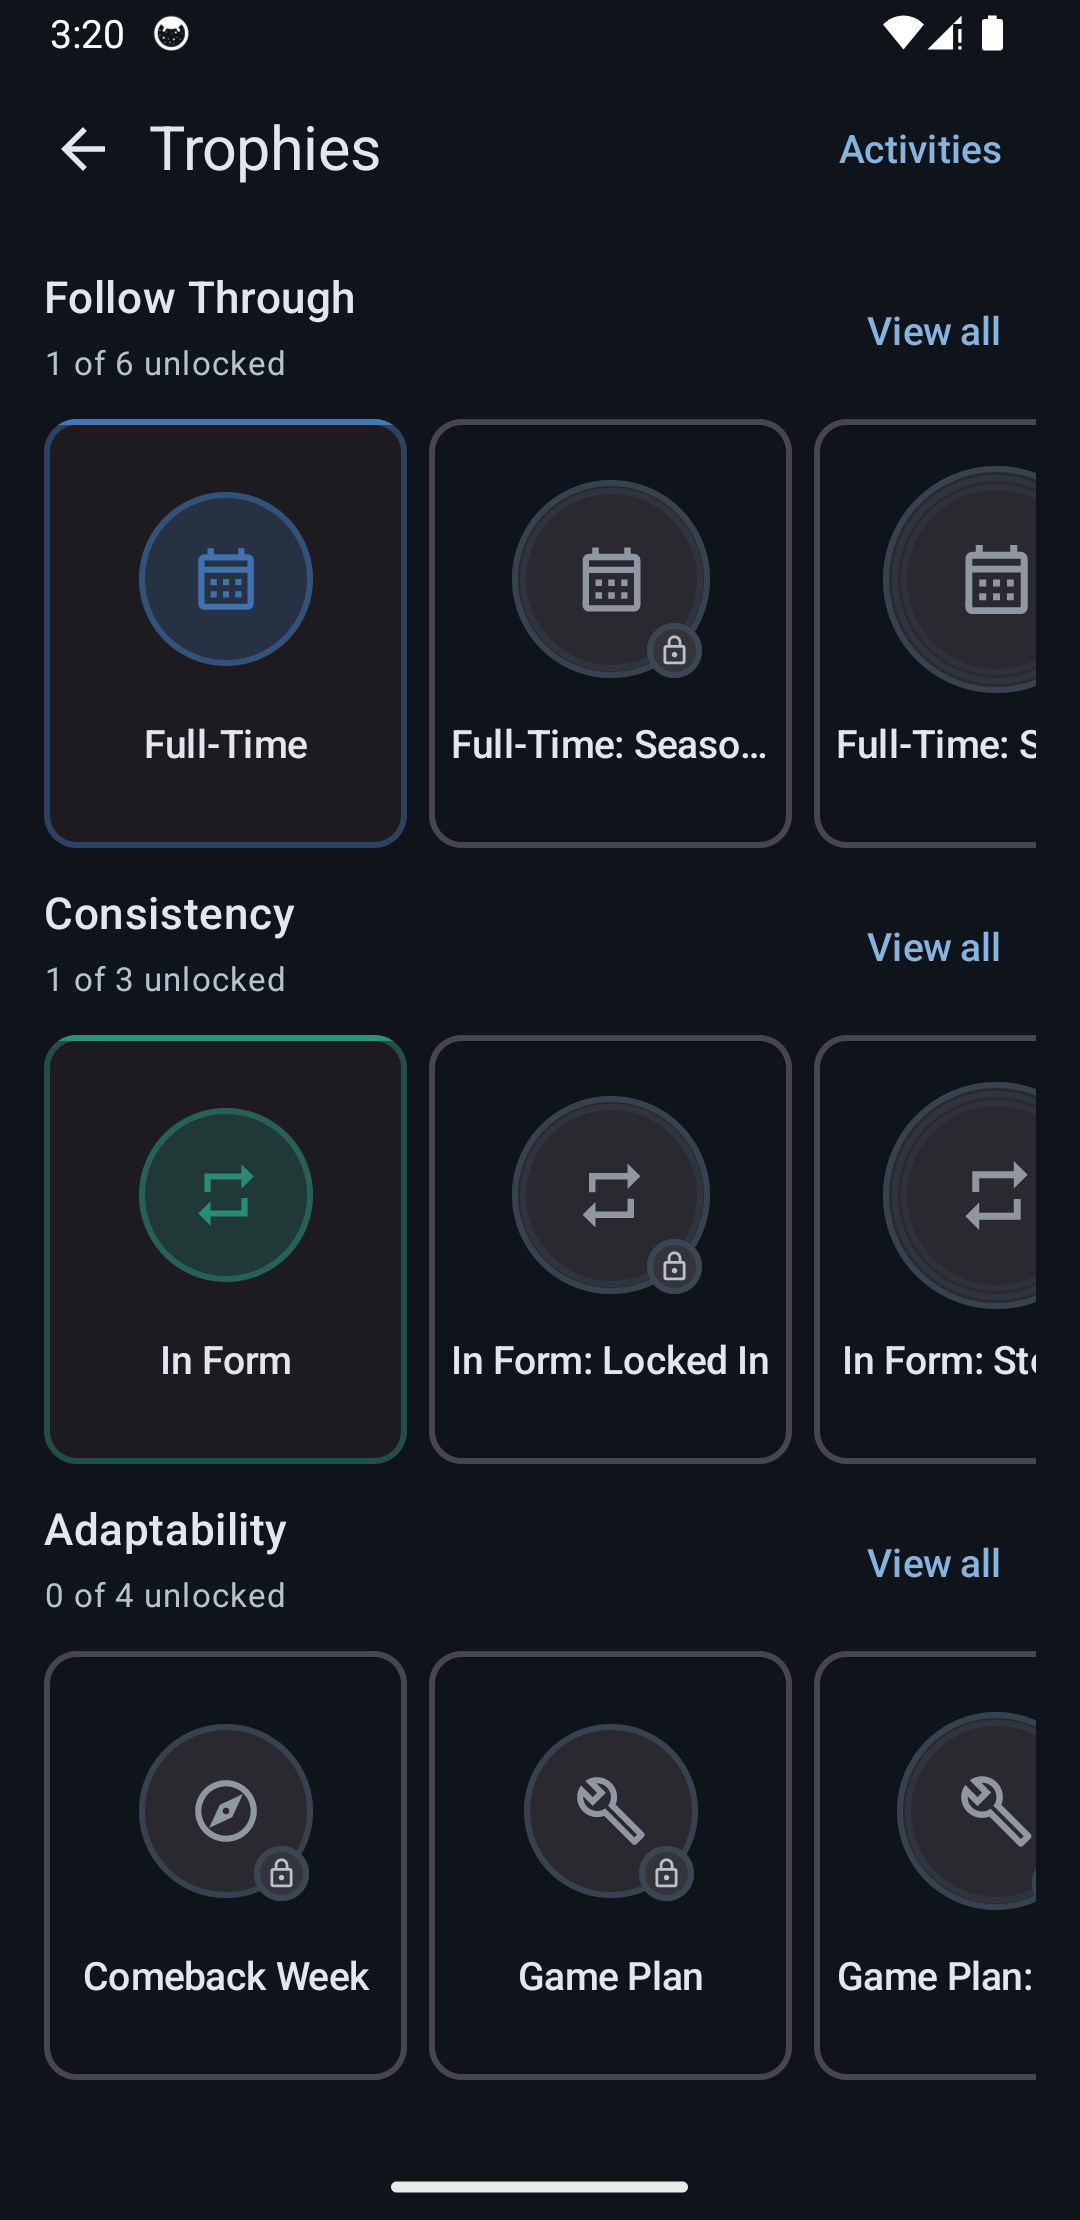
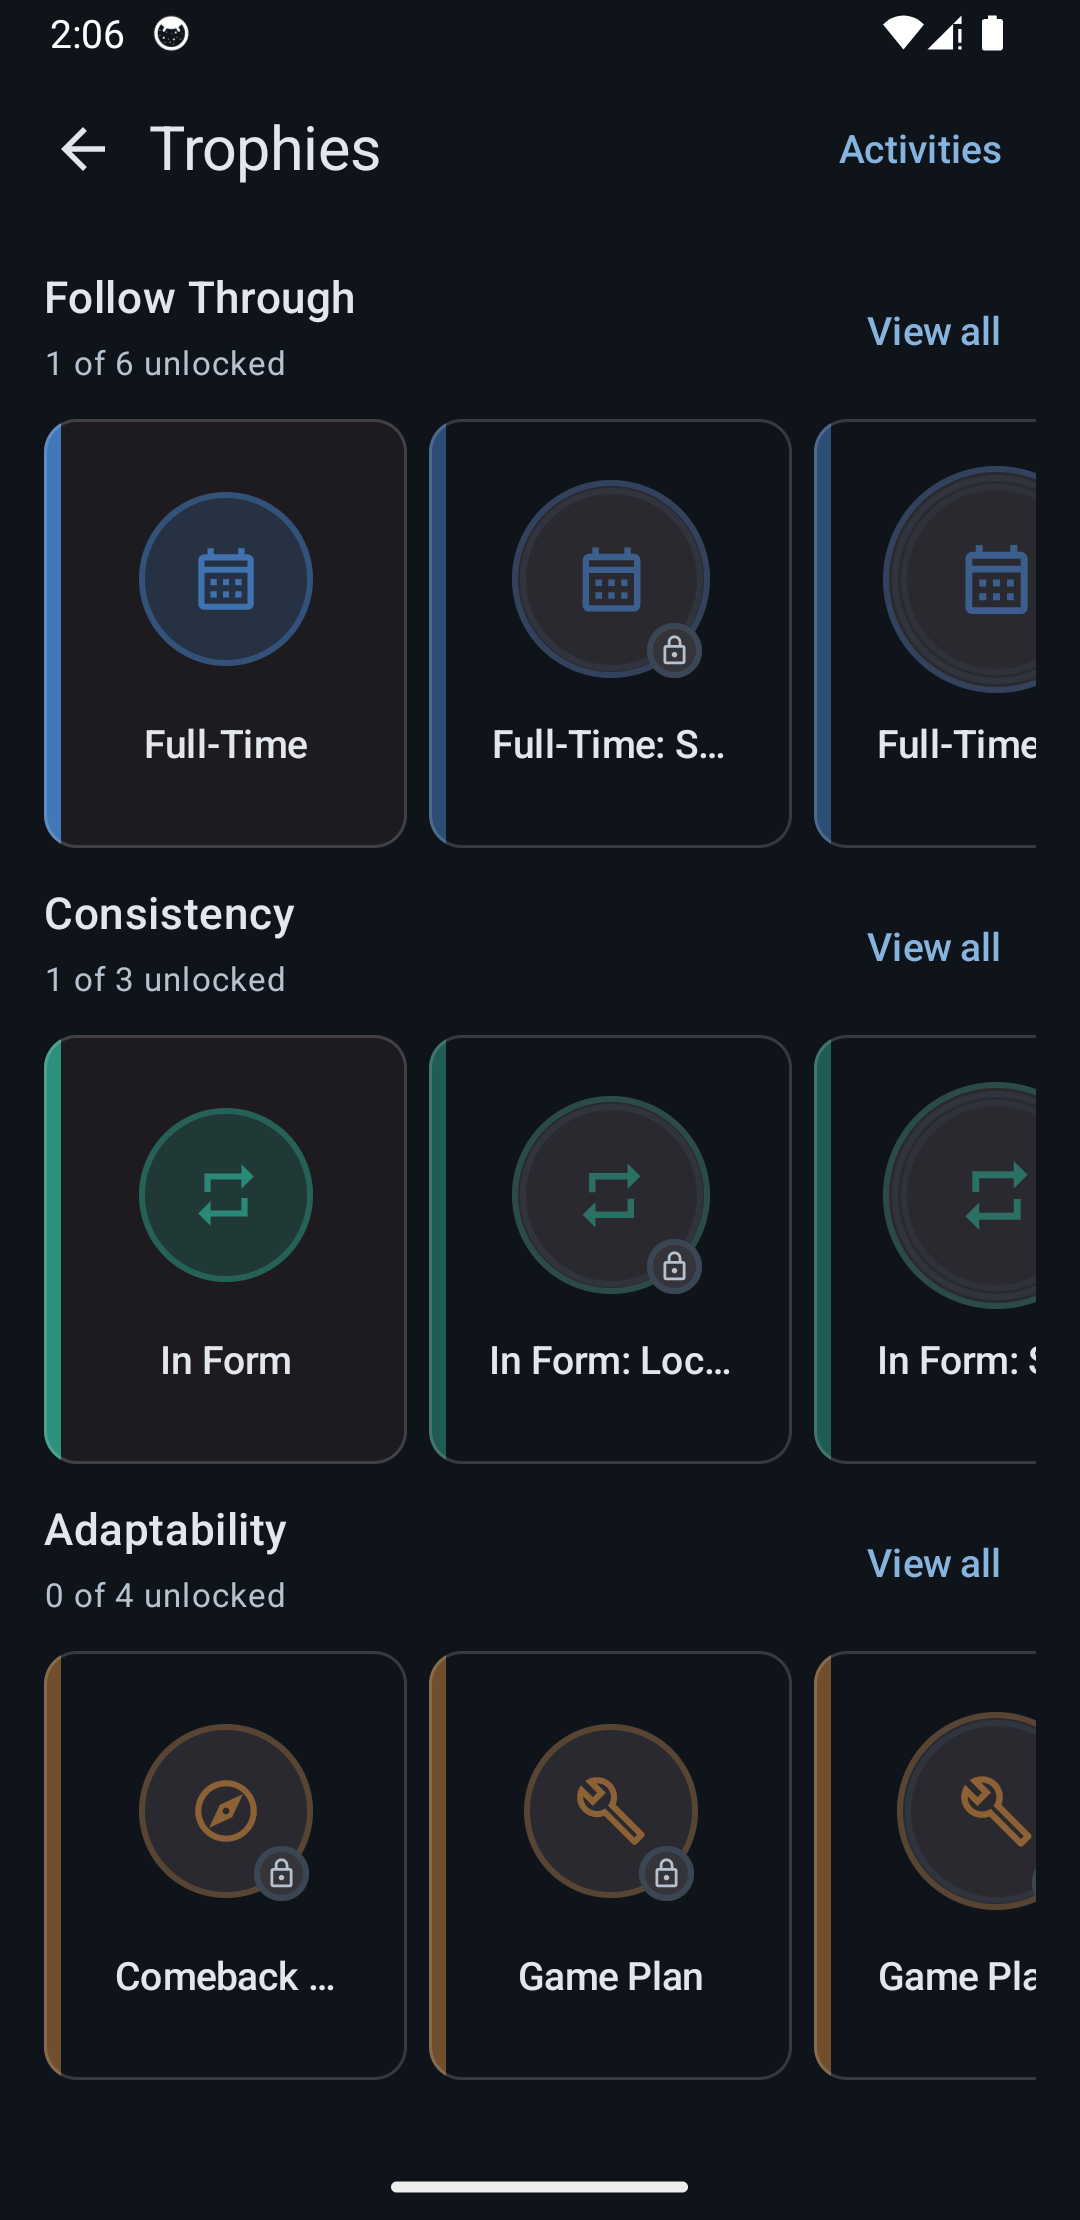
Refine trophy card rails

diff --git a/app/src/main/java/com/rafaelfelipeac/hermes/features/trophies/presentation/TrophiesScreenSections.kt b/app/src/main/java/com/rafaelfelipeac/hermes/features/trophies/presentation/TrophiesScreenSections.kt
@@ -7,6 +7,7 @@ import androidx.compose.foundation.layout.Arrangement
 import androidx.compose.foundation.layout.Box
 import androidx.compose.foundation.layout.Column
 import androidx.compose.foundation.layout.Row
+import androidx.compose.foundation.layout.fillMaxHeight
 import androidx.compose.foundation.layout.fillMaxSize
 import androidx.compose.foundation.layout.fillMaxWidth
 import androidx.compose.foundation.layout.height
@@ -37,7 +38,7 @@ import androidx.compose.ui.text.style.TextAlign
 import androidx.compose.ui.text.style.TextOverflow
 import com.rafaelfelipeac.hermes.R
 import com.rafaelfelipeac.hermes.core.ui.currentLocale
-import com.rafaelfelipeac.hermes.core.ui.theme.Dimens.BorderThin
+import com.rafaelfelipeac.hermes.core.ui.theme.Dimens.BorderHairline
 import com.rafaelfelipeac.hermes.core.ui.theme.Dimens.SpacingLg
 import com.rafaelfelipeac.hermes.core.ui.theme.Dimens.SpacingMd
 import com.rafaelfelipeac.hermes.core.ui.theme.Dimens.SpacingSm
@@ -45,6 +46,7 @@ import com.rafaelfelipeac.hermes.core.ui.theme.Dimens.SpacingXs
 import com.rafaelfelipeac.hermes.core.ui.theme.Dimens.TrophyCardArtworkTopPadding
 import com.rafaelfelipeac.hermes.core.ui.theme.Dimens.TrophyCardCategoryBlockHeight
 import com.rafaelfelipeac.hermes.core.ui.theme.Dimens.TrophyCardTitleBlockHeight
+import com.rafaelfelipeac.hermes.core.ui.theme.Dimens.TrophyCategoryAccentWidth
 import com.rafaelfelipeac.hermes.core.ui.theme.Dimens.TrophyDetailCardMinHeight
 import com.rafaelfelipeac.hermes.core.ui.theme.Dimens.TrophyGridArtworkSize
 import com.rafaelfelipeac.hermes.core.ui.theme.Dimens.TrophyOverviewCardMinHeight
@@ -53,7 +55,8 @@ import com.rafaelfelipeac.hermes.core.ui.theme.Dimens.TrophyShelfCardMinWidth
 import com.rafaelfelipeac.hermes.core.ui.theme.Dimens.TrophyStateLineBlockHeight
 import com.rafaelfelipeac.hermes.core.ui.theme.categoryAccentColor
 
-private const val UNLOCKED_TROPHY_BORDER_ALPHA = 0.42f
+private const val LOCKED_TROPHY_RAIL_ALPHA = 0.58f
+private const val TROPHY_FRAME_ALPHA = 0.18f
 private const val TROPHY_TITLE_MAX_LINES = 2
 
 @Composable
@@ -234,12 +237,8 @@ private fun TrophyShelfCard(
     modifier: Modifier = Modifier,
 ) {
     val accent = trophyAccentColor(trophy)
-    val borderColor =
-        if (trophy.isUnlocked) {
-            accent.copy(alpha = UNLOCKED_TROPHY_BORDER_ALPHA)
-        } else {
-            colorScheme.outlineVariant
-        }
+    val railColor = if (trophy.isUnlocked) accent else accent.copy(alpha = LOCKED_TROPHY_RAIL_ALPHA)
+    val frameColor = colorScheme.onSurface.copy(alpha = TROPHY_FRAME_ALPHA)
     val cardColor =
         if (trophy.isUnlocked) {
             colorScheme.surfaceContainerLow
@@ -268,23 +267,21 @@ private fun TrophyShelfCard(
                 .semantics { contentDescription = semanticsLabel }
                 .clickable(onClick = onClick),
         colors = CardDefaults.cardColors(containerColor = cardColor),
-        border = BorderStroke(BorderThin, borderColor),
+        border = BorderStroke(BorderHairline, frameColor),
     ) {
         Box(
             modifier =
                 Modifier
                     .fillMaxSize(),
         ) {
-            if (trophy.isUnlocked) {
-                Box(
-                    modifier =
-                        Modifier
-                            .align(Alignment.TopCenter)
-                            .fillMaxWidth()
-                            .height(BorderThin)
-                            .background(accent),
-                )
-            }
+            Box(
+                modifier =
+                    Modifier
+                        .align(Alignment.CenterStart)
+                        .fillMaxHeight()
+                        .width(TrophyCategoryAccentWidth)
+                        .background(railColor),
+            )
 
             Column(
                 modifier =
@@ -313,6 +310,7 @@ private fun TrophyShelfCard(
                     modifier =
                         Modifier
                             .fillMaxWidth()
+                            .padding(horizontal = SpacingLg)
                             .height(TrophyCardTitleBlockHeight),
                     contentAlignment = Alignment.TopCenter,
                 ) {

diff --git a/app/src/main/java/com/rafaelfelipeac/hermes/features/trophies/presentation/TrophyBadge.kt b/app/src/main/java/com/rafaelfelipeac/hermes/features/trophies/presentation/TrophyBadge.kt
@@ -35,8 +35,8 @@ private const val BADGE_CREST_ICON_SCALE = 1.08f
 private const val BADGE_FILL_ALPHA = 0.24f
 private const val BADGE_BORDER_ALPHA = 0.46f
 private const val BADGE_ICON_ALPHA = 0.92f
-private const val BADGE_LOCKED_ICON_ALPHA = 0.72f
-private const val BADGE_LOCKED_BORDER_ALPHA = 0.78f
+private const val BADGE_LOCKED_ACCENT_ICON_ALPHA = 0.68f
+private const val BADGE_LOCKED_ACCENT_BORDER_ALPHA = 0.32f
 private const val BADGE_LOCKED_MIDDLE_RING_ALPHA = 0.34f
 private const val BADGE_LOCKED_INNER_RING_ALPHA = 0.26f
 private const val BADGE_LOCK_OVERLAY_BORDER_ALPHA = 0.88f
@@ -68,7 +68,7 @@ internal fun TrophyBadge(
         if (trophy.isUnlocked) {
             accent.copy(alpha = tierStyle.iconAlpha)
         } else {
-            colorScheme.onSurfaceVariant.copy(alpha = BADGE_LOCKED_ICON_ALPHA)
+            accent.copy(alpha = BADGE_LOCKED_ACCENT_ICON_ALPHA)
         }
     val badgeColor =
         if (trophy.isUnlocked) {
@@ -80,7 +80,7 @@ internal fun TrophyBadge(
         if (trophy.isUnlocked) {
             accent.copy(alpha = tierStyle.borderAlpha)
         } else {
-            colorScheme.outline.copy(alpha = BADGE_LOCKED_BORDER_ALPHA)
+            accent.copy(alpha = BADGE_LOCKED_ACCENT_BORDER_ALPHA)
         }
     val middleRingColor =
         if (trophy.isUnlocked) {

diff --git a/app/src/main/java/com/rafaelfelipeac/hermes/core/ui/theme/Dimens.kt b/app/src/main/java/com/rafaelfelipeac/hermes/core/ui/theme/Dimens.kt
@@ -91,6 +91,7 @@ object Dimens {
     val TrophyDetailIconSize = 44.dp
     val TrophyBadgeLockBadgeSize = 20.dp
     val TrophyBadgeLockIconSize = 12.dp
+    val TrophyCategoryAccentWidth = 6.dp
     val TrophyShelfCardMinWidth = 132.dp
     val TrophyOverviewCardMinHeight = 156.dp
     val TrophyDetailCardMinHeight = 176.dp

diff --git a/LEARNING.md b/LEARNING.md
@@ -687,3 +687,6 @@ Recent learnings:
 - A final screenshot pass needs explicit navigation target verification, not just scripted taps. Bottom navigation hit areas sit above the gesture bar, so regression captures should confirm the destination title before treating files as valid.
 - Categories still benefit from the established `TitleChip` pattern even after the row shell becomes quieter. Pairing color and name in one chip keeps category identity consistent with workout rows, event cards, and picker fields.
 - Backup actions need grouping even when each action is a standalone row. Export/import share a data-transfer context, while backup folder selection is a storage preference, so a subtle separator helps without adding extra copy.
+- Trophy shelf items feel less generated when category color is structural rather than decorative. Replacing full colored frames with a single left rail keeps the card neutral while category-tinted icons preserve the achievement identity.
+- Trophy rails need a neutral frame to keep card boundaries legible. The category rail can own the left edge while a thinner low-alpha surface frame defines the remaining edges without making the category color feel like decoration.
+- Trophy card borders make text proximity more noticeable than borderless cards. Title blocks need their own horizontal inset so the label reads as card content instead of touching the structural frame.
